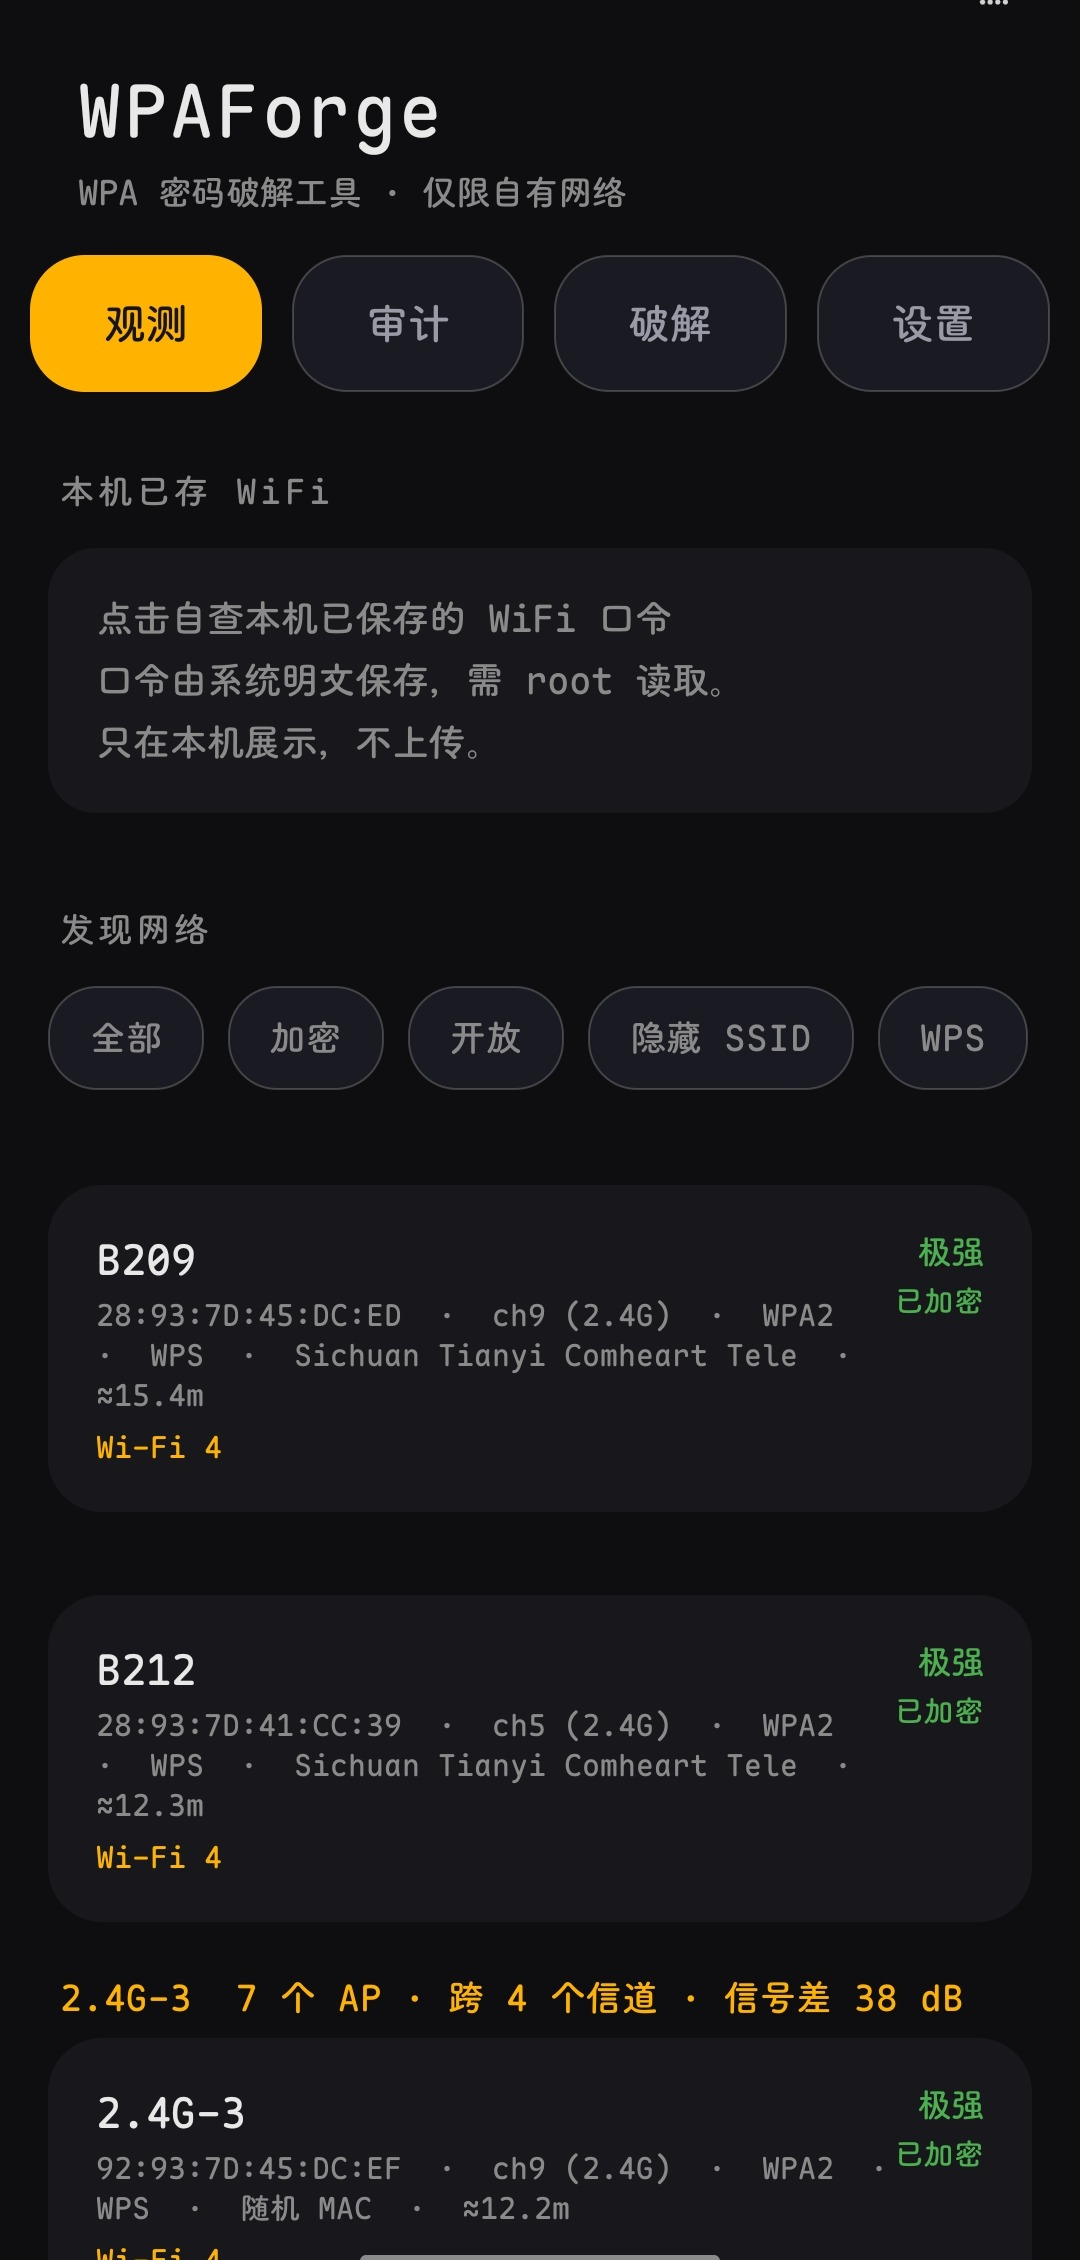
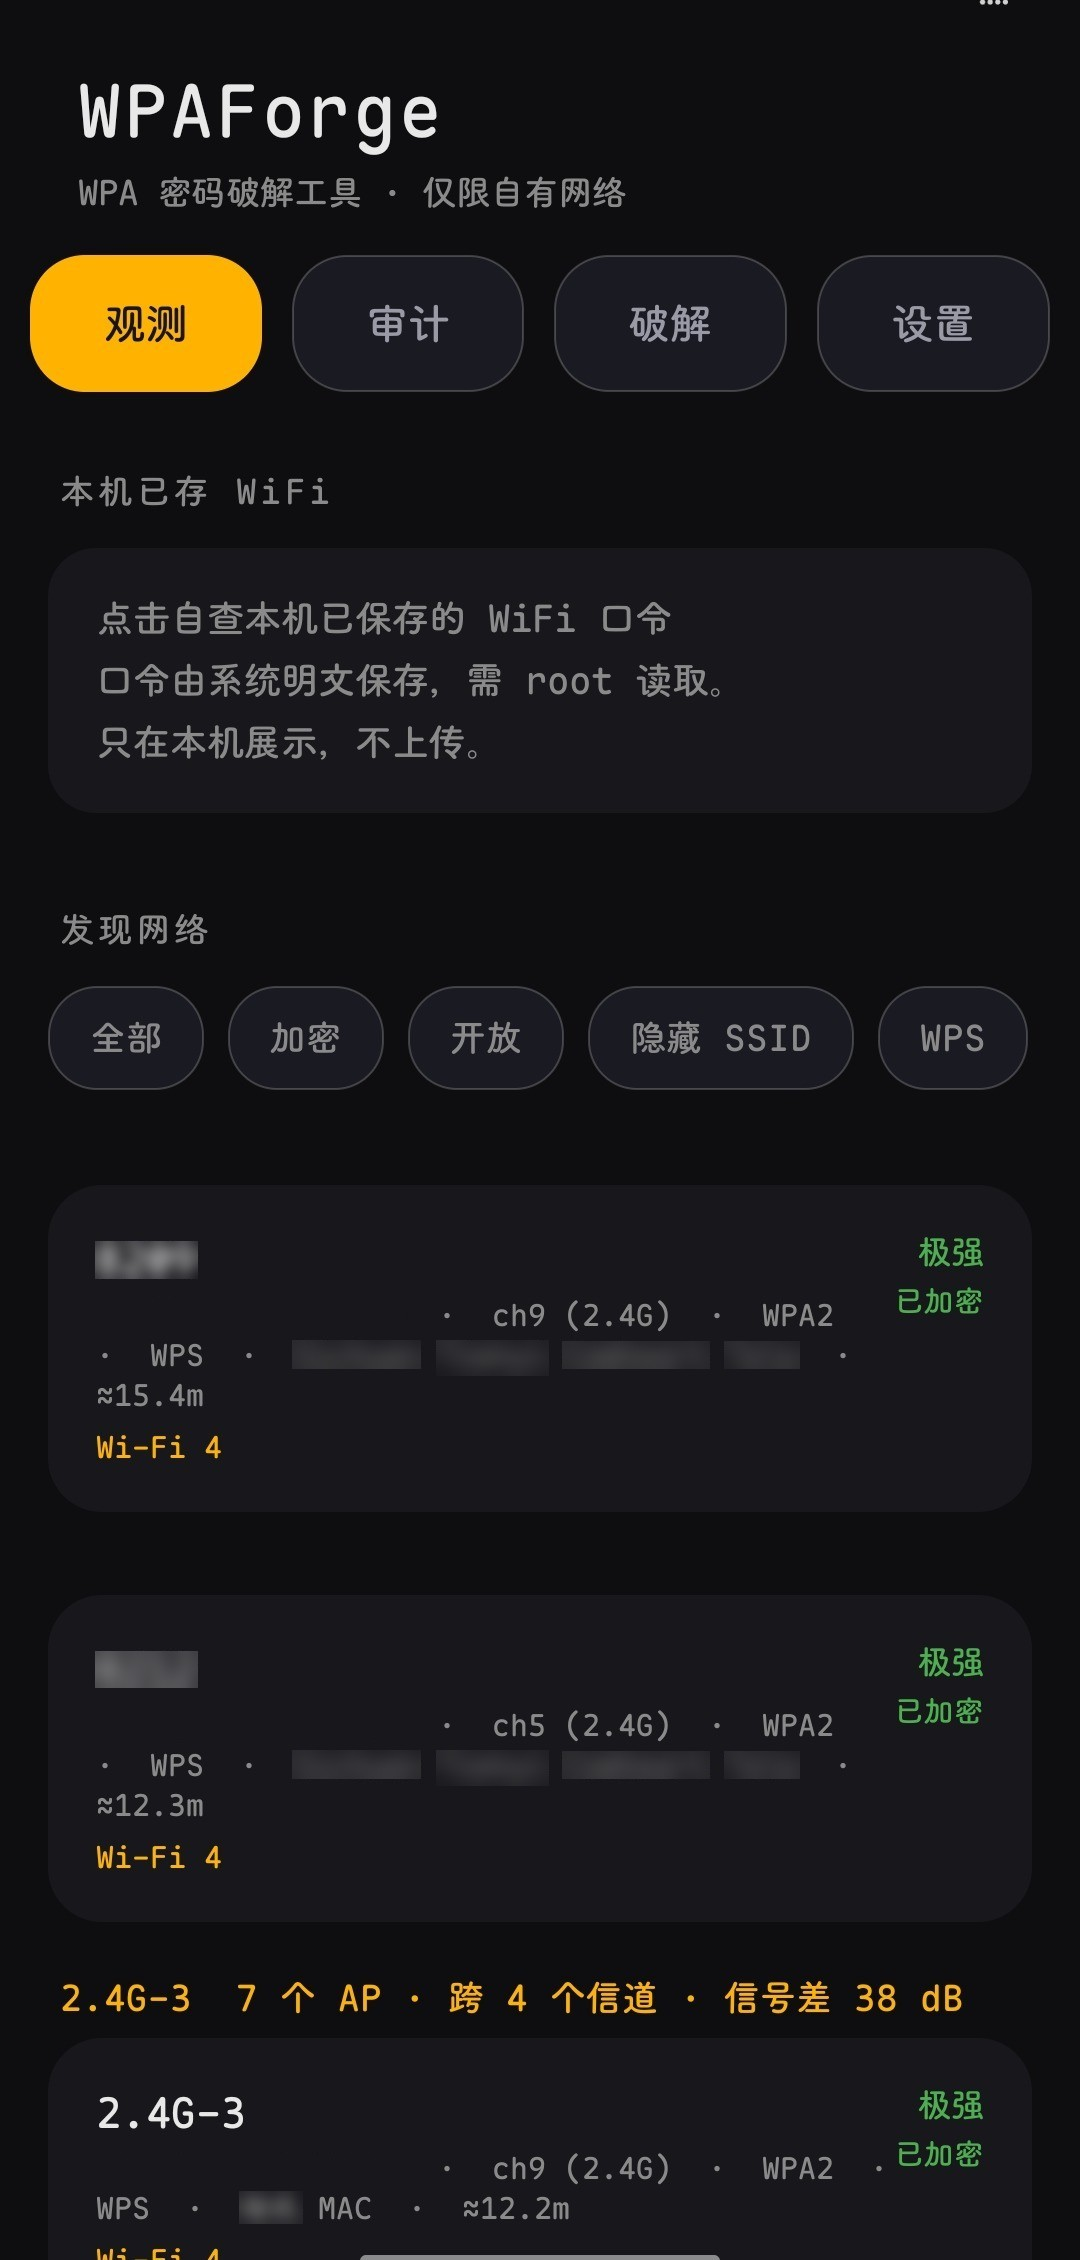
docs: 首屏界面速览 GIF + 对比/失败场景章节 + 落地页与 Issue 模板；截图打码
- README 首屏加 docs/demo-ui.gif（观测→选目标→字典→破解）
- 新增「和其他做法比」「它什么时候会失败」两节，补 Discussions / Issue 入口与 star CTA
- 全部截图里的 SSID / BSSID 打码，界面预览换成不含第三方信息的两张
- README_EN 同步 GIF 与 star CTA
- 新增 docs/index.html 落地页（供 GitHub Pages 使用）
- 新增 Issue / PR 模板与 Discussions 引导

diff --git a/docs/index.html b/docs/index.html
@@ -1,0 +1,144 @@
+<!DOCTYPE html>
+<html lang="zh-CN">
+<head>
+<meta charset="utf-8">
+<meta name="viewport" content="width=device-width,initial-scale=1">
+<title>WPAForge —— 在手机上，把附近那台路由器的 WPA 密码试出来</title>
+<meta name="description" content="WPAForge：Android 原生 WPA/WPA2 密码审计工具。不翻大字典，按 SSID 现场派生候选，逐条真实关联验证，只认 4-Way Handshake 完成。纯 Root，开源 Apache-2.0。">
+<meta property="og:title" content="WPAForge —— 手机上的 WPA 密码审计工具">
+<meta property="og:description" content="按 SSID 现场派生候选，只认 4-Way Handshake，纯 Root 开源。">
+<meta property="og:image" content="banner.svg">
+<style>
+:root{--bg:#0d0d10;--card:#17171c;--line:#26262e;--fg:#e9e9ee;--dim:#9a9aa6;--acc:#ffc420}
+*{box-sizing:border-box}
+body{margin:0;background:var(--bg);color:var(--fg);font:16px/1.7 -apple-system,"Segoe UI",Roboto,"Noto Sans SC","PingFang SC","Microsoft YaHei",sans-serif}
+a{color:var(--acc);text-decoration:none}
+.wrap{max-width:880px;margin:0 auto;padding:0 20px 80px}
+header{padding:56px 0 8px;text-align:center}
+h1{font-size:40px;margin:0 0 10px;letter-spacing:1px}
+.tag{color:var(--dim);font-size:18px;margin:0 auto 22px;max-width:620px}
+.badges img{height:20px;margin:0 3px;vertical-align:middle}
+.btn{display:inline-block;background:var(--acc);color:#181400;font-weight:700;padding:13px 30px;border-radius:10px;margin:6px 4px;font-size:17px}
+.btn.gh{background:#22222a;color:var(--fg);border:1px solid var(--line)}
+h2{font-size:24px;margin:52px 0 14px;padding-top:22px;border-top:1px solid var(--line)}
+h3{font-size:18px;margin:26px 0 8px}
+p{color:#d3d3dc}
+.dim{color:var(--dim)}
+figure{margin:22px 0;text-align:center}
+figure img{max-width:100%;border-radius:12px;border:1px solid var(--line)}
+figcaption{color:var(--dim);font-size:14px;margin-top:8px}
+.grid{display:grid;grid-template-columns:repeat(auto-fit,minmax(160px,1fr));gap:12px;margin:18px 0}
+.grid img{width:100%;border-radius:10px;border:1px solid var(--line)}
+table{width:100%;border-collapse:collapse;margin:16px 0;font-size:15px}
+th,td{border:1px solid var(--line);padding:9px 11px;text-align:left;vertical-align:top}
+th{background:#1c1c22;color:var(--fg)}
+td{color:#cfcfd8}
+code{background:#1e1e25;padding:2px 6px;border-radius:5px;font-size:14px}
+pre{background:#141419;border:1px solid var(--line);border-radius:10px;padding:14px;overflow:auto;color:#cfcfd8}
+.q{font-weight:700;color:var(--fg);margin:18px 0 4px}
+.warn{background:#211a12;border-left:3px solid var(--acc);padding:14px 16px;border-radius:0 8px 8px 0;color:#e6d9bd}
+footer{color:var(--dim);font-size:14px;text-align:center;margin-top:60px;border-top:1px solid var(--line);padding-top:24px}
+</style>
+</head>
+<body>
+<div class="wrap">
+
+<header>
+  <h1>WPAForge ⚡</h1>
+  <p class="tag">在手机上，把附近那台路由器的 WPA 密码试出来。<br>
+  <span class="dim">不用电脑、不用外置网卡、不用 Termux —— 原生 App，纯 Root。</span></p>
+  <p class="badges">
+    <img src="https://img.shields.io/github/v/release/wlmosv-png/wpaforge?style=flat-square&color=orange" alt="release">
+    <img src="https://img.shields.io/github/downloads/wlmosv-png/wpaforge/total?style=flat-square&color=blue" alt="downloads">
+    <img src="https://img.shields.io/github/stars/wlmosv-png/wpaforge?style=flat-square&color=yellow" alt="stars">
+    <img src="https://img.shields.io/badge/license-Apache--2.0-green?style=flat-square" alt="license">
+    <img src="https://img.shields.io/badge/platform-Android%208%2B-3DDC84?style=flat-square" alt="android">
+    <img src="https://img.shields.io/badge/requires-root-red?style=flat-square" alt="root">
+  </p>
+  <p>
+    <a class="btn" href="https://github.com/wlmosv-png/wpaforge/releases/latest">⬇ 下载最新版 APK</a>
+    <a class="btn gh" href="https://github.com/wlmosv-png/wpaforge">看源码 / ⭐ Star</a>
+  </p>
+</header>
+
+<figure>
+  <img src="demo-ui.gif" alt="WPAForge 界面速览">
+  <figcaption>界面速览 —— 观测 → 选目标 → 字典 → 破解，四步。</figcaption>
+</figure>
+
+<h2>它怎么找密码</h2>
+<p><b>不翻大字典。先猜 —— 按你这台路由器可能被设成什么，造几百条，排好序，从上往下试。</b>字典是备用的，不是主力。</p>
+<p><b>猜，是有依据的。</b>SSID 叫 <code>FAST_E972</code>，它会现场造出 <code>fast2026</code>、<code>FAST#2026</code>、<code>e972e972</code>、<code>fast@2026</code> 这些，现成字典里没有。厂商名从 BSSID 查 IEEE 的 OUI 表得出（419 KB / 15913 条打进包里），查不到就留空，不编一个出来。</p>
+<p><b>每条都要真发一次关联请求。</b>快的 AP 1 秒给结论，慢的 5 秒以上。手机一次只能连一个网络，这是 Android 的限制，绕不过去 —— 所以候选的质量比数量重要得多：十万条盲试是按天算的，几百条精准的通常几分钟就完。</p>
+<p><b>判成功只认一种证据：4-Way Handshake 完成。</b>SSID、supplicant 状态、IP、netId 四条必须来自同一行输出，缺一条就不算。宁可报「不确定」，也不报一个假成功。</p>
+<p><b>锁屏继续跑，中断能接上。</b>进度持续落盘（节流写，最多 20 条一次），被系统杀掉也不丢。</p>
+
+<h2>还有什么</h2>
+<table>
+<tr><th>能力</th><th>说明</th></tr>
+<tr><td>多目标队列</td><td>排好的一串目标依次执行，每个可单独暂停 / 继续</td></tr>
+<tr><td>局域网侦察</td><td>连上目标后扫同网段存活主机与常见端口，按厂商归类，出可导出报告</td></tr>
+<tr><td>观测页</td><td>信道占用图给出换信道建议，列出带宽与 Wi-Fi 代际，可按 WPS 筛选</td></tr>
+<tr><td>连接可控</td><td>同名 SSID 多 AP 时用 <code>-b</code> 锁定选中那一条；可开启每次尝试换随机 MAC</td></tr>
+<tr><td>本机自查</td><td>读手机里已保存的 WiFi，给出每条密码在常见口令表里的位次</td></tr>
+<tr><td>WPS 攻击</td><td>扫描阶段就判「打不打得动」，判据以 <code>km=WPS</code> / <code>WPS-M2D</code> 为准；候选四层（厂商算法 / 内置弱 PIN 表 / 自定义列表 / 完整枚举），另有拆半攻击与断点续跑</td></tr>
+<tr><td>离线校验</td><td>导入 <code>.cap</code> / <code>.hc22000</code>，EAPOL 与 PMKID 两条校验路径，1 万条约 37 秒</td></tr>
+<tr><td>字典管理</td><td>内容搜索（包含 / 前缀 / 后缀 / 正则）、长按多选合并、大字典编辑不丢数据</td></tr>
+</table>
+
+<h2>和其他做法比</h2>
+<table>
+<tr><th>做法</th><th>要什么</th><th>快不快</th><th>门槛</th></tr>
+<tr><td><b>WPAForge</b></td><td>一台 Root 的手机</td><td>现场派生候选，几百条一般几分钟</td><td>会点开始就行</td></tr>
+<tr><td>电脑 aircrack-ng + 抓包</td><td>笔记本 + 支持 monitor 的网卡 + 抓到手握手包</td><td>取决于字典，大字典按天算</td><td>会命令行、会抓包</td></tr>
+<tr><td>手机 Termux 脚本</td><td>Phone 上的 Linux 环境 + 外置网卡</td><td>多半只是下载并跑 aircrack</td><td>会折腾环境</td></tr>
+<tr><td>在线字典站</td><td>把握手包传给别人</td><td>等队列</td><td>你的包离开了本机</td></tr>
+</table>
+<p class="dim">WPAForge 的取舍：候选靠现场派生而不是堆字典，所以它擅长「路由器主人设的那种密码」，不擅长「随机 12 位强密码」。后者本来就该换 WPA3。</p>
+
+<h2>安装</h2>
+<p class="warn"><b>需要 Root · Android 8.0+</b><br>
+没有 Root 就别试了 —— 判定依赖 <code>su + cmd wifi</code>。Shizuku 与免 Root 通道在 1.8.x 已移除：Shizuku 要在每次连接时借 binder，免 Root 走 <code>WifiNetworkSpecifier</code> 则每条候选都会弹一次系统确认框 —— 两者都撑不起逐条字典遍历。</p>
+<pre>1. 打开「观测」页，扫描附近网络，选中你的目标
+2. 打开「破解」页，加载字典（或让它现场派生）
+3. 点开始，锁屏等结果 —— 命中的密码会直接标出来</pre>
+
+<figure>
+  <img src="screenshots/shot01.jpg" alt="观测页" style="max-width:300px">
+  <figcaption>观测：雷达 + 信道占用</figcaption>
+</figure>
+<div class="grid">
+  <img src="screenshots/shot02.jpg" alt="信号分布">
+  <img src="screenshots/shot05.jpg" alt="审计">
+  <img src="screenshots/shot07.jpg" alt="字典">
+  <img src="screenshots/shot08.jpg" alt="破解">
+</div>
+
+<h2>它什么时候会失败</h2>
+<p>先把话说在前面，这样你不会把它当 bug 到处骂：</p>
+<table>
+<tr><th>现象</th><th>原因</th><th>怎么办</th></tr>
+<tr><td>一直在试但拿不到</td><td>密码不在候选集合里（随机长密码、纯手写怪口令）</td><td>导入自己的字典，或把候选上限调高</td></tr>
+<tr><td>一开始就全失败</td><td>目标开了 WPA3 / PMF（受保护管理帧）或 WPA2-WPA3 过渡模式</td><td>这类 AP 单靠关联尝试打不动，别硬啃</td></tr>
+<tr><td>部分 AP 扫不到</td><td>手机不支持 6GHz，或用了随机 MAC 的连接</td><td>在设置里关掉本机的随机 MAC 再扫</td></tr>
+<tr><td>连不上、报权限错误</td><td>Root 没给，或 ROM 禁了 <code>cmd wifi</code></td><td>确认 <code>su</code> 可用，看 App 内自检那 6 步</td></tr>
+<tr><td>中途被系统杀掉</td><td>后台省电策略</td><td>加白名单、锁屏后别清后台；进度会落盘，重开续跑</td></tr>
+</table>
+
+<h2>使用边界</h2>
+<p><b>仅对自己拥有授权的网络使用</b>（自有路由器、实验室、授权渗透测试）。对未授权网络发起关联尝试是违法行为，且路由器侧会记录你的 MAC 与时间。</p>
+
+<h2>想要什么，去哪儿说</h2>
+<p>功能建议、机型兼容反馈、失败的 AP 特征，都丢到
+<a href="https://github.com/wlmosv-png/wpaforge/discussions">Discussions</a>；
+明确的 bug 用 <a href="https://github.com/wlmosv-png/wpaforge/issues/new/choose">Issue 模板</a>。</p>
+
+<footer>
+  <p><b>如果它帮到你了，回仓库点个 ⭐ —— 这是这个项目唯一的需求清单。</b></p>
+  <p>Apache License 2.0 · 设计取舍与踩过的坑见 <a href="https://github.com/wlmosv-png/wpaforge/blob/main/doc/TECHNICAL-NOTES.md">TECHNICAL-NOTES.md</a></p>
+  <p>© wlmosv-png</p>
+</footer>
+
+</div>
+</body>
+</html>

diff --git a/README_EN.md b/README_EN.md
@@ -15,6 +15,8 @@
 
 <img src="docs/banner.svg" alt="WPAForge" width="100%">
 
+<img src="docs/demo-ui.gif" alt="WPAForge UI overview" width="88%">
+
 </div>
 
 ---
@@ -136,3 +138,7 @@ Design trade-offs and pitfalls (config-reuse false positives, detection timing, 
 | **[TGAutoSign](https://github.com/wlmosv-png/TGAutoSign)** | Xposed module for Telegram auto check-in — multi-account slots, group sign-in detection, scheduled plans, themed UI. Manage targets with `/jmb` in any chat. |
 | **[apk-index](https://github.com/wlmosv-png/apk-index)** | APK static indexing & reverse-engineering search — parses AXML, indexes each dex, finds hook points by string / signature / structure. MCP-ready. |
 
+---
+
+**If this saved you time, hit ⭐ on the repo — that is the entire wishlist.**
+Questions and device-compat reports: [Discussions](https://github.com/wlmosv-png/wpaforge/discussions).

diff --git a/.github/PULL_REQUEST_TEMPLATE.md b/.github/PULL_REQUEST_TEMPLATE.md
@@ -1,0 +1,10 @@
+## 改了什么
+
+## 为什么
+
+## 验证方式
+
+- [ ] `1-aapt2.sh` + `2-build-dex.sh` 能出包
+- [ ] 单测通过
+- [ ] 真机跑过一次相关流程
+- [ ] 没有把版本号写在默认值里（发布时必须显式传入）
